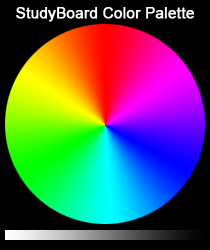
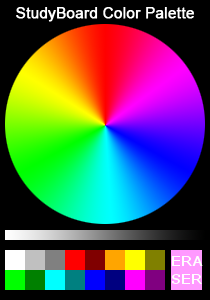
palette improved

diff --git a/static/scripts.js b/static/scripts.js
@@ -26,8 +26,6 @@ function init()
 
     canvas2=document.getElementById('palette');
     ctx2=canvas2.getContext("2d");
-    w2=canvas2.width;
-    h2=canvas2.height;
     var image=new Image();
     image.src="static/images/studyboardpalette.png";
     image.onload = function () {
@@ -45,21 +43,25 @@ function selectcolor(e)
 {
     var paletteX=e.clientX-994; //not sure why 'canvas2.offsetLeft/Top' wasn't working for me so I hard coded the offsets
     var paletteY=e.clientY-120; 
-    var pixeldata=ctx2.getImageData(paletteX,paletteY,1,1);
-    var pixel=pixeldata.data;
-    $('#RGB').val(pixel[0]+','+pixel[1]+','+pixel[2]);
-    var temphex=pixel[2] + 256 * pixel[1] + 65536 * pixel[0];
-    var hex='#'+('000000' + temphex.toString(16)).substr(-6)
-    $('#HEX').val(hex);
-    /*if(hex=="#000000")
-    {
-	console.log("poo");
-	x="black";
+    if(paletteX > 171 && paletteX < 202 && paletteY > 251 && paletteY < 291){
+	$('#RGB').val('Eraser');
+	$('#HEX').val('Eraser');
+	x='#ffffff';
+	y=20;
     }
-    else*/
+    else{
+	var pixeldata=ctx2.getImageData(paletteX,paletteY,1,1);
+	var pixel=pixeldata.data;
+	$('#RGB').val(pixel[0]+','+pixel[1]+','+pixel[2]);
+	var temphex=pixel[2] + 256 * pixel[1] + 65536 * pixel[0];
+	var hex='#'+('000000' + temphex.toString(16)).substr(-6)
+	$('#HEX').val(hex);
 	x=hex;
+	y=2;
+    }
 }
 
+/*
 function color(obj)
 {
     switch(obj.id)
@@ -74,8 +76,8 @@ function color(obj)
     }
     if(x=="white")y=20;
     else y=2;
-    
 }
+*/
 
 function draw()
 {

diff --git a/templates/whiteboard.html b/templates/whiteboard.html
@@ -85,16 +85,15 @@ table {
 	</div>
 </div>
 <div class="colorpalette" style="position:absolute;top:120px;left:994px;">
-	<canvas id="palette" width="210" height="250"></canvas>
+	<canvas id="palette" width="210" height="300"></canvas>
 	<div class="ctrlpanel">
 		<div>
-			<label>RGB</label><input type="text" id="RGB"/>
-		</div>
-		<div>
-			<label>HEX</label><input type="text" id="HEX"/>
+			<label>RGB</label><input type="text" id="RGB" size=8 />
+			<label>HEX</label><input type="text" id="HEX" size=4 />
 		</div>
 	</div>
 </div>
+<!--
 <div id="paletteselection">
 	<div style="top:1%;left:1200px;">
 		Choose Color
@@ -117,6 +116,7 @@ table {
 	<div class="color" style="top:25%;left:1200px;width:100px;height:30px;background:white;border:2px solid;" id="white" onclick="color(this)">
 	</div>
 </div>
+-->
 <input type="button" value="save" id="btn" size="30" onclick="save()" style="position:absolute;top:680px;left:25px;">
 <input type="button" value="clear" id="clr" size="23" onclick="erase()" style="position:absolute;top:680px;left:80px;">
 <input type="button" value="load" id="ld" size="23" onclick="load()" style="position:absolute;top:680px;left:135px">
